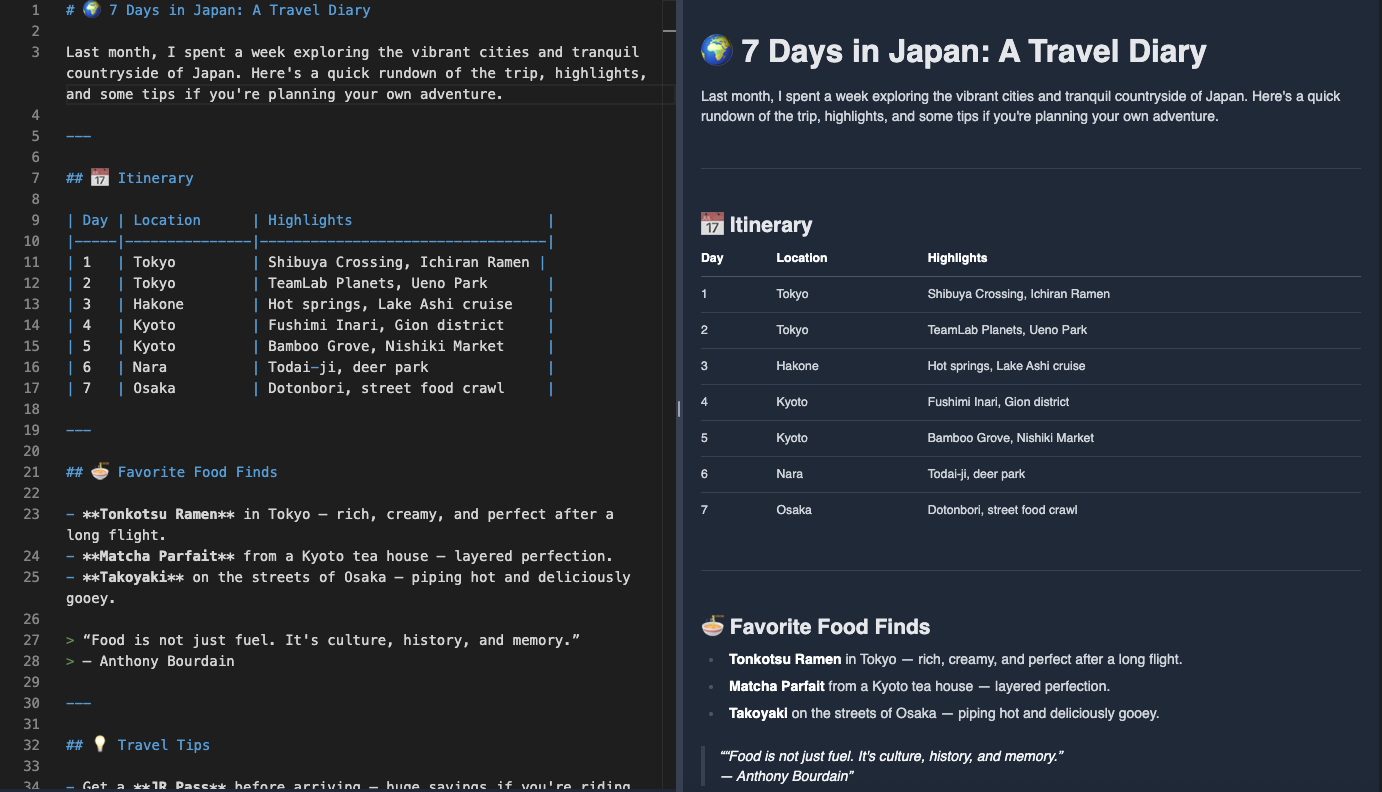
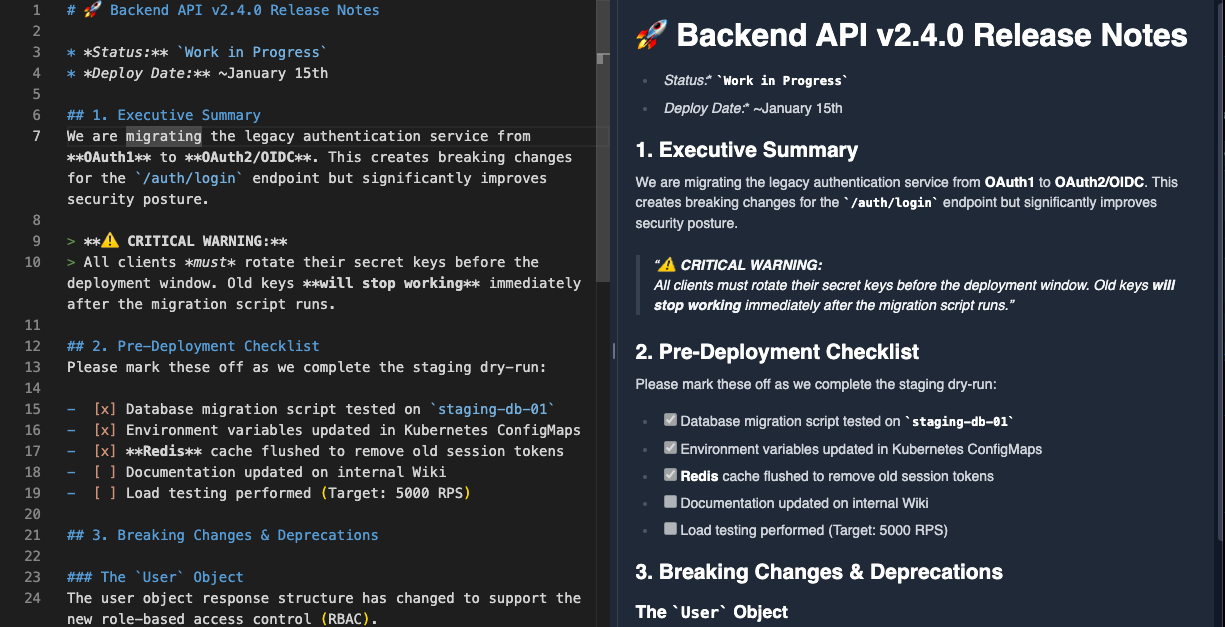
Landing page rewrite

diff --git a/landing/features.html b/landing/features.html
@@ -380,7 +380,7 @@
       <div class="card-sharp p-6 border-emerald-500/30">
         <h3 class="text-emerald-500 font-mono text-sm mb-3">// Smart Views Enabled</h3>
         <p class="text-gray-400 text-sm mb-4">
-          Six formats get specialized interactive workbenches that understand structure and enable advanced operations:
+          Many formats get specialized interactive workbenches that understand structure and enable advanced operations including:
         </p>
         <div class="grid md:grid-cols-3 gap-4 text-sm">
           <div class="text-gray-400">
@@ -693,7 +693,7 @@
         </div>
         <h2 class="text-3xl md:text-4xl font-mono text-white mb-4">Built-In Utility Arsenal.</h2>
         <p class="text-lg text-gray-400 max-w-3xl leading-relaxed">
-          32+ specialized mini-apps for common developer tasks. No installations, no external sites, no tracking.
+          25+ specialized Tablets for common developer tasks. No installations, no external sites, no tracking.
         </p>
       </div>
 
@@ -750,7 +750,7 @@
       </div>
 
       <div class="text-center">
-        <p class="text-gray-400 mb-4">Plus 20+ more utilities including URL parser, colour palette, date tools, emoji search, and productivity timers.</p>
+        <p class="text-gray-400 mb-4">Plus more utilities including URL parser, colour palette, date tools, emoji search, and productivity timers.</p>
         <a href="tablets.html" class="terminal-button">
           <span class="text-gray-500 mr-2">$</span> view_all_tablets
         </a>

diff --git a/landing/index.html b/landing/index.html
@@ -423,7 +423,7 @@
           <span class="text-emerald-500 font-mono text-xs">[LAYER_03] // SPECIALIZED_UTILITIES</span>
         </div>
         <p class="text-lg text-gray-400 max-w-3xl leading-relaxed">
-          A collection of 25+ standalone mini-apps for the tasks that usually require a dozen browser tabs. No data intake required - just pure, offline utility.
+          A collection of 25+ standalone "Tablets" (mini-apps) for the tasks that usually require a dozen browser tabs. No data intake required - just pure, offline utility.
         </p>
       </div>
 
